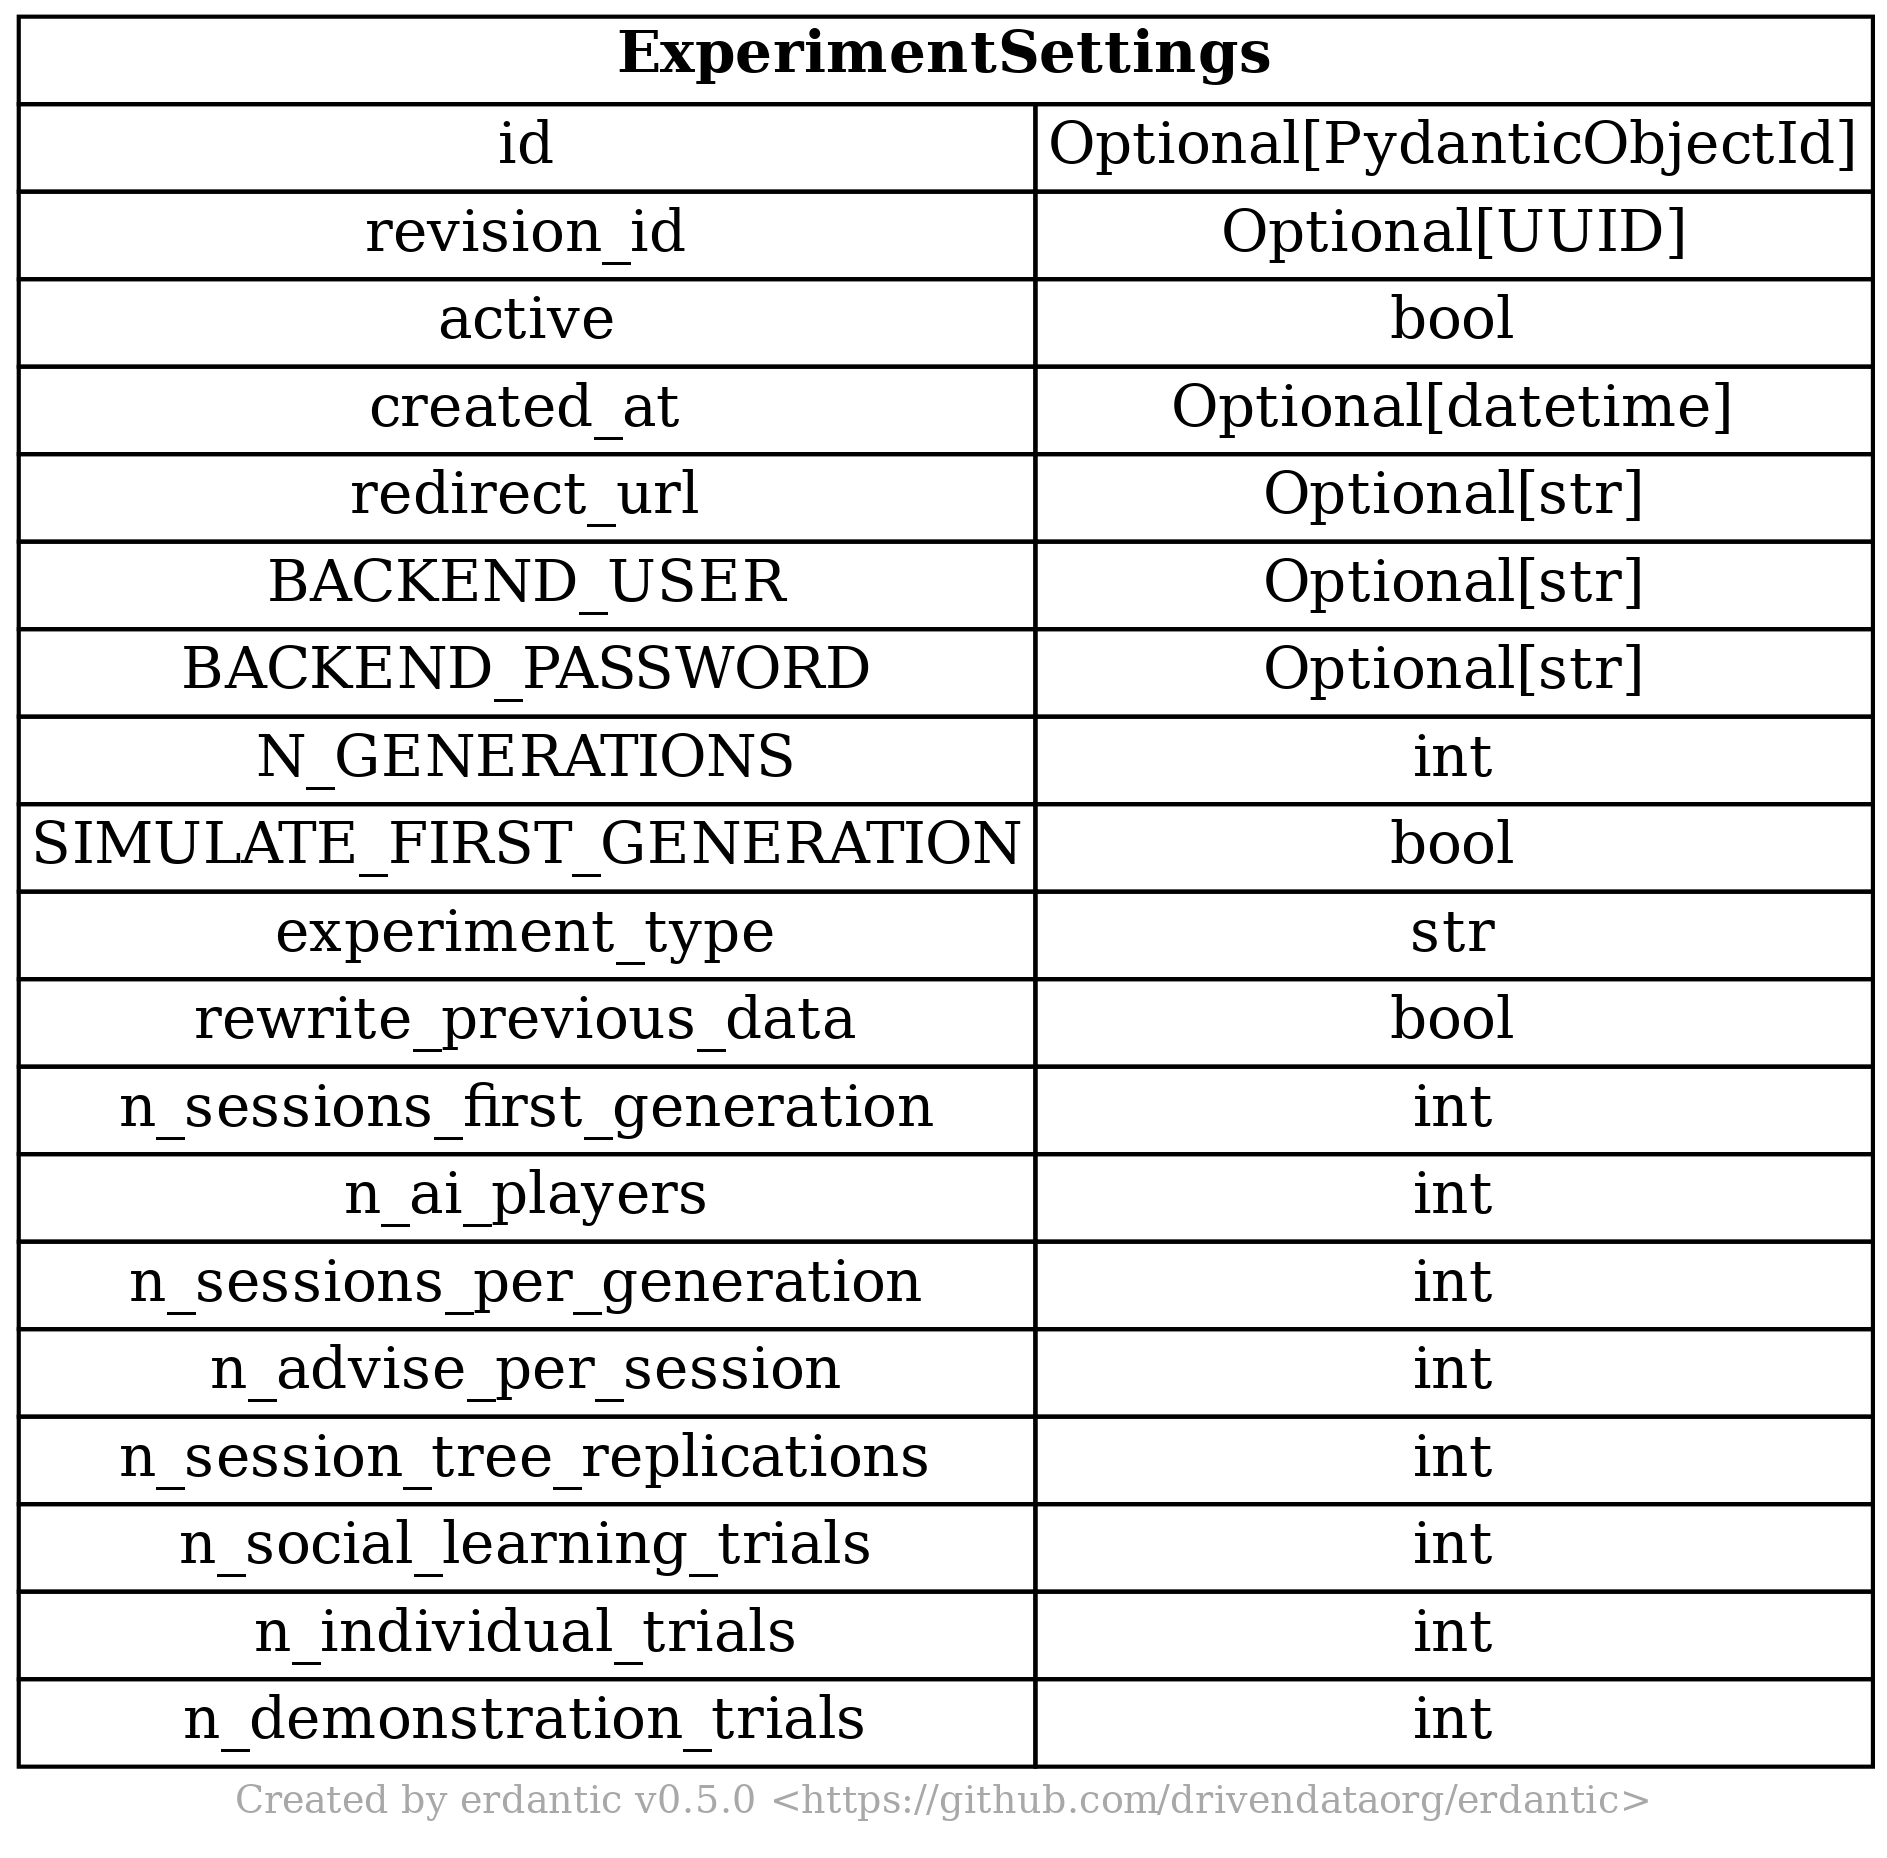
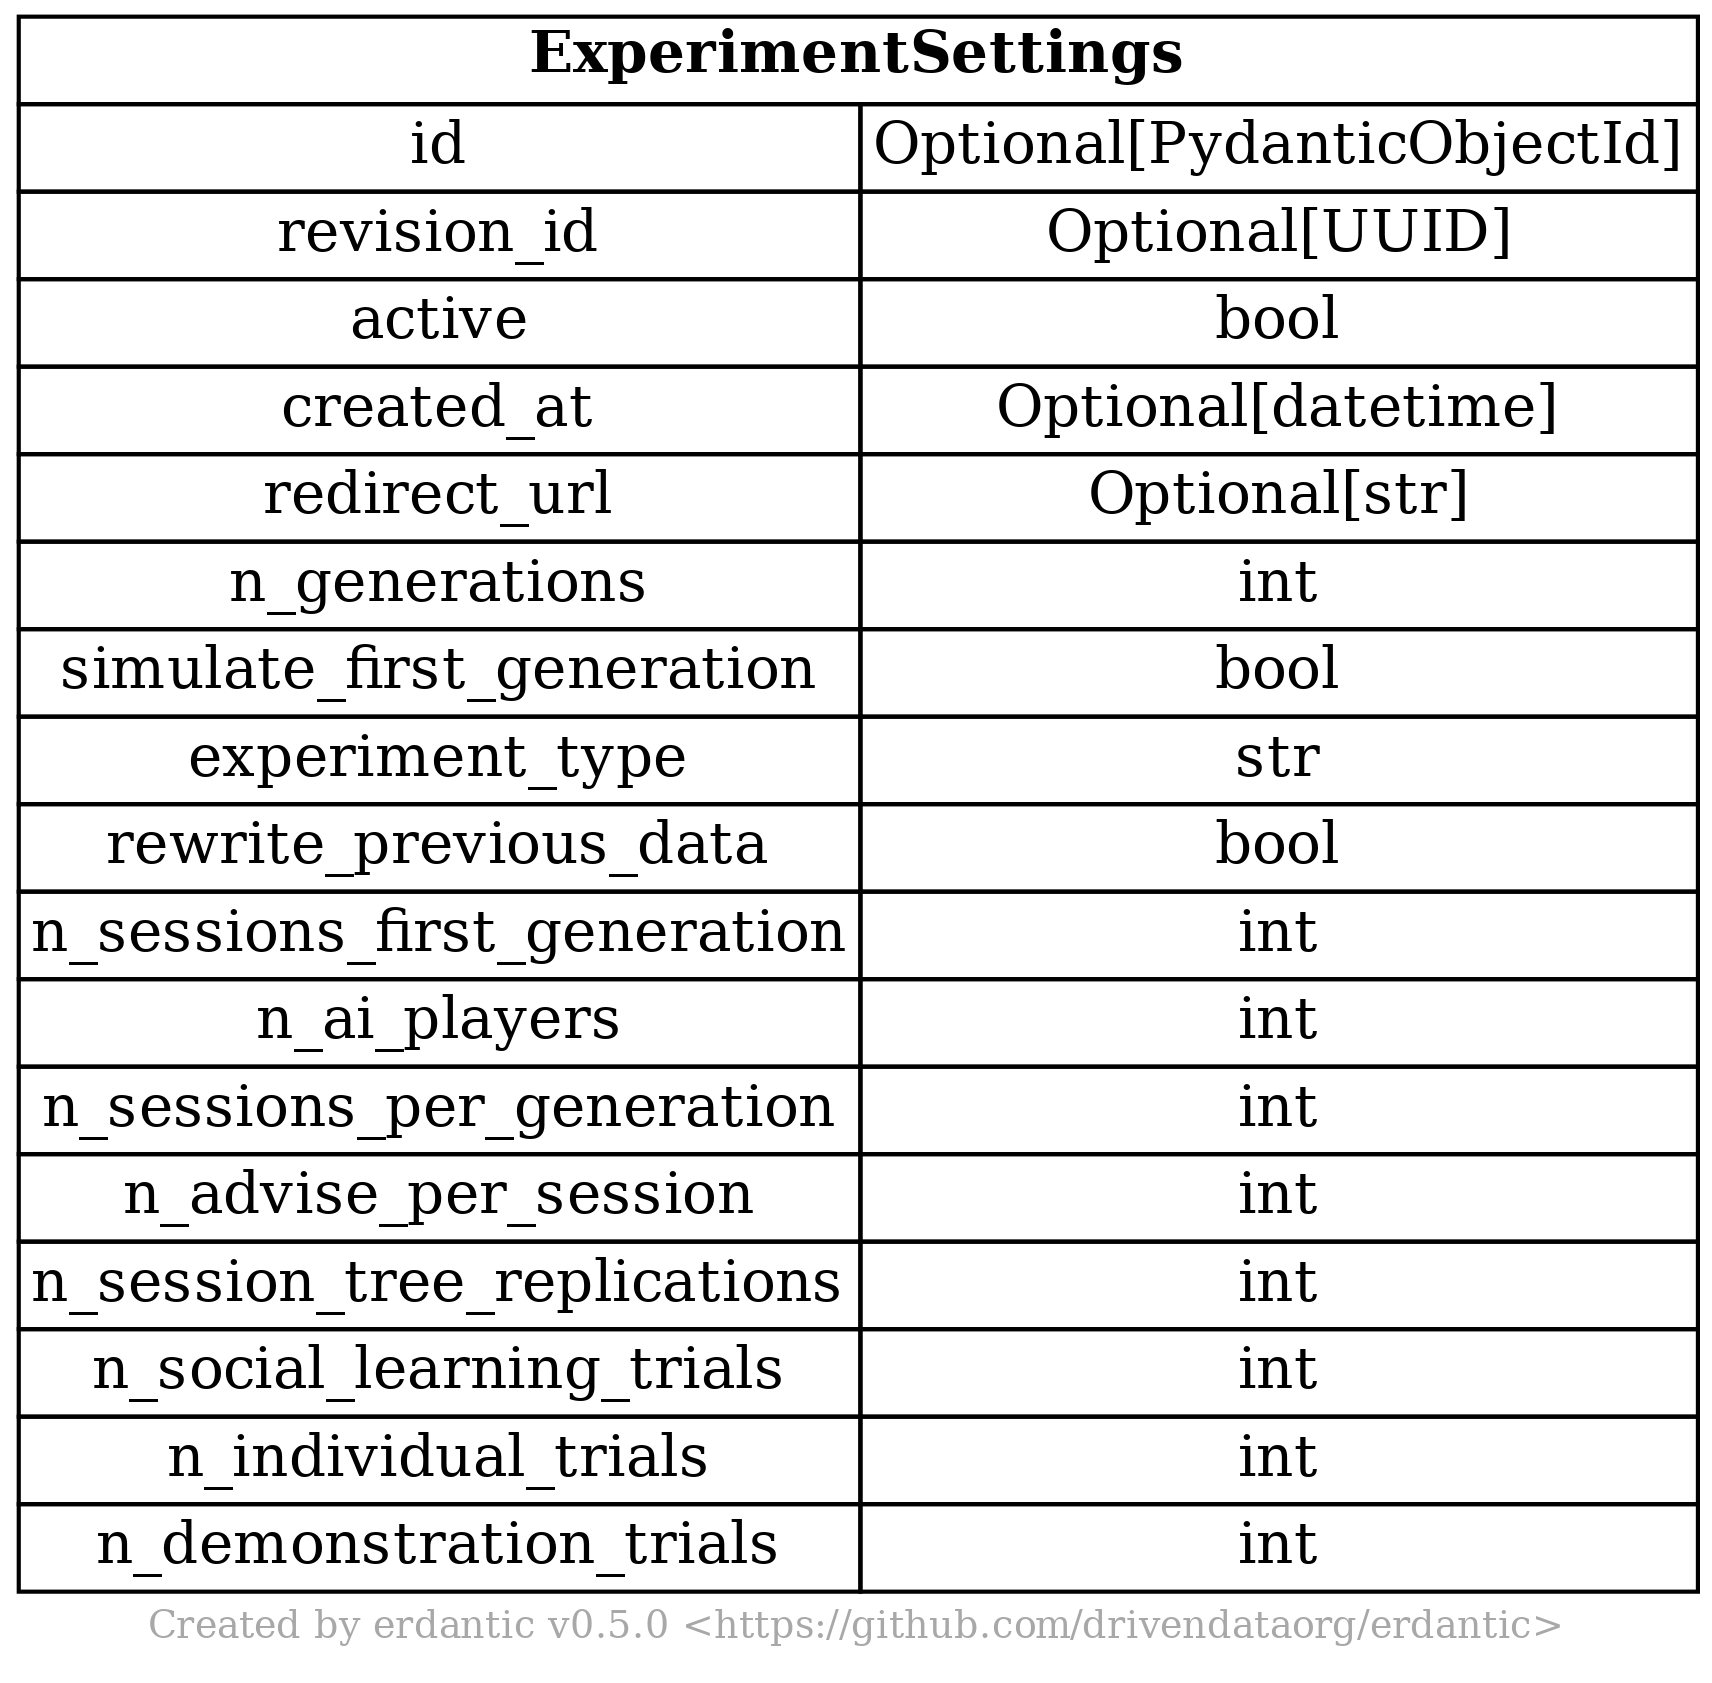
add redirect link

Changed region(s): [[0.0, 0.0, 1.0, 0.9887]]

diff --git a/frontend/src/components/Trials/RenderTrialComponent.tsx b/frontend/src/components/Trials/RenderTrialComponent.tsx
@@ -101,7 +101,7 @@ export const renderTrial = (
         case 'post_survey':
             return <PostSurvey onContinueHandler={OnNextTrial}/>;
         case 'debriefing':
-            return <Debriefing redirect={'https://www.prolific.co/'}/>; // TODO: data.redirect_link
+            return <Debriefing redirect={data.redirect_url}/>;
         default:
             return <> </>;
     }

diff --git a/frontend/src/apis/apiTypes.ts b/frontend/src/apis/apiTypes.ts
@@ -84,6 +84,7 @@ export interface Trial {
   selected_by_children?: string[];
   written_strategy?: WrittenStrategy;
   post_survey?: PostSurvey;
+  redirect_url?: string;
 }
 export interface WrittenStrategy {
   strategy: string;

diff --git a/backend/app/models/config.py b/backend/app/models/config.py
@@ -8,8 +8,9 @@ class ExperimentSettings(Document):
     # whether the experiment is active
     active: bool = False
     created_at: Optional[datetime] = datetime.now()
-    # https://app.prolific.co/submissions/complete?cc=4FC4E0C0
-    redirect_url: Optional[str] = None
+
+    # Example: https://app.prolific.co/submissions/complete?cc=4FC4E0C0
+    redirect_url: Optional[str] = "https://app.prolific.co/submissions/complete"
 
     # These variables are rewritten on deployment
     # number of generations with the first generation

diff --git a/backend/app/models/trial.py b/backend/app/models/trial.py
@@ -77,6 +77,8 @@ class Trial(BaseModel):
     written_strategy: Optional[WrittenStrategy]
     # post survey trial relevant field
     post_survey: Optional[PostSurvey]
+    # redirect url with the confirmation code
+    redirect_url: Optional[str]
 
     class Config:
         orm_mode = True

diff --git a/backend/app/tests/simultate_session_data.py b/backend/app/tests/simultate_session_data.py
@@ -2,7 +2,6 @@ import json
 import random
 from pathlib import Path
 
-from models.config import ExperimentSettings
 from models.network import Network
 from models.session import Session
 from models.trial import Trial, Solution, WrittenStrategy
